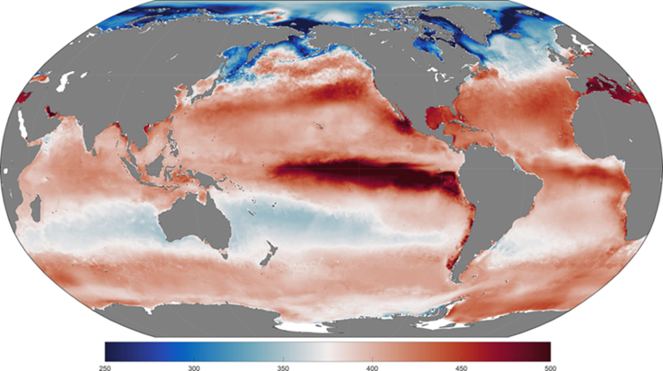
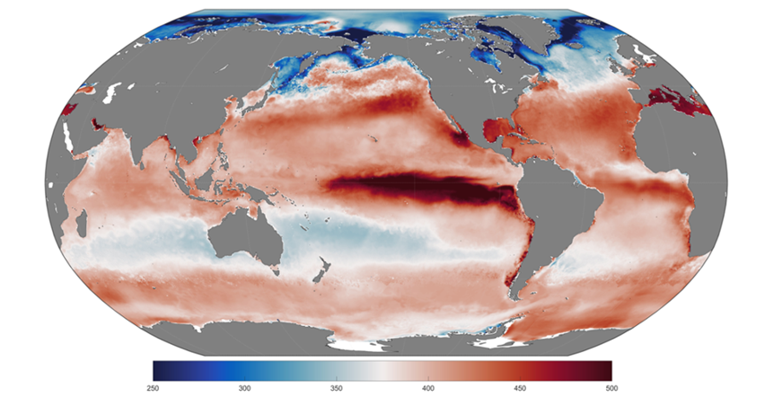
improved image clipping

diff --git a/src/co2_synthesis/images.py b/src/co2_synthesis/images.py
@@ -9,8 +9,10 @@ In this script there are tools to:
 import io
 import re
 import requests
+from itertools import product
 from PIL import Image, ImageChops
 from pathlib import Path
+import numpy as np
 import pandas as pd
 from loguru import logger
 from . import cfg
@@ -107,26 +109,59 @@ def resize_image_to_mb(image: Image.Image, target_size_mb: float) -> Image.Image
     output_buffer = io.BytesIO()
     image.save(output_buffer, format="png")
 
+    ratio = target_size_bytes / output_buffer.tell() * 10
+
     while output_buffer.tell() > target_size_bytes:
-        new_dims = tuple([int(dim * 0.9) for dim in image.size])
+        new_dims = tuple([int(dim * ratio) for dim in image.size])
         output_buffer = io.BytesIO()
         image = resize_image_to_pixels(image, new_dims)
         image.save(output_buffer, format="png")
+        ratio = 0.9
 
     output_buffer.seek(0)
     image = Image.open(output_buffer)
     return image
 
 
-def trim_image(im:Image.Image) -> Image.Image:
-    bg = Image.new(im.mode, im.size, im.getpixel((0,0)))
+def trim_image(im: Image.Image) -> Image.Image:
+    # Step 1: Determine the background color by sampling edge pixels
+    color = get_edgecolor(im)
+    
+    # Step 2: Create a new image filled with the detected background color, same size and mode as the original
+    bg = Image.new(im.mode, im.size, color)
+    
+    # Step 3: Compute the pixel-wise difference between the original image and the background image
+    # This highlights areas where the image differs from the background
     diff = ImageChops.difference(im, bg)
+    
+    # Step 4: Enhance the difference by amplifying it (scale by 2.0 and subtract 100 to increase contrast)
+    # This makes subtle differences more pronounced, helping to identify the content boundaries
     diff = ImageChops.add(diff, diff, 2.0, -100)
+    
+    # Step 5: Get the bounding box of the non-zero (differing) pixels in the enhanced difference image
+    # This box represents the area containing the main content
     bbox = diff.getbbox()
+    
+    # Step 6: If a bounding box is found, crop the original image to that box; otherwise, return the original image
     if bbox:
         return im.crop(bbox)
     else:
-        return im  # no contents found
+        return im  # No contents found, so return the image as-is
+        
+
+def get_edgecolor(im:Image.Image) -> int:
+    x, y = im.size
+    xx = (0, x//2, x-1)
+    yy = (0, y//2, y-1)
+    products = list(product(xx, yy))
+    colors = []
+    for x, y in products:
+        colors.append(im.getpixel((x, y)))
+    colors = np.array(colors)
+    # get median of colours
+    color = int(np.median(colors))
+    
+    return color
 
 
 def get_final_url(doi_link):
